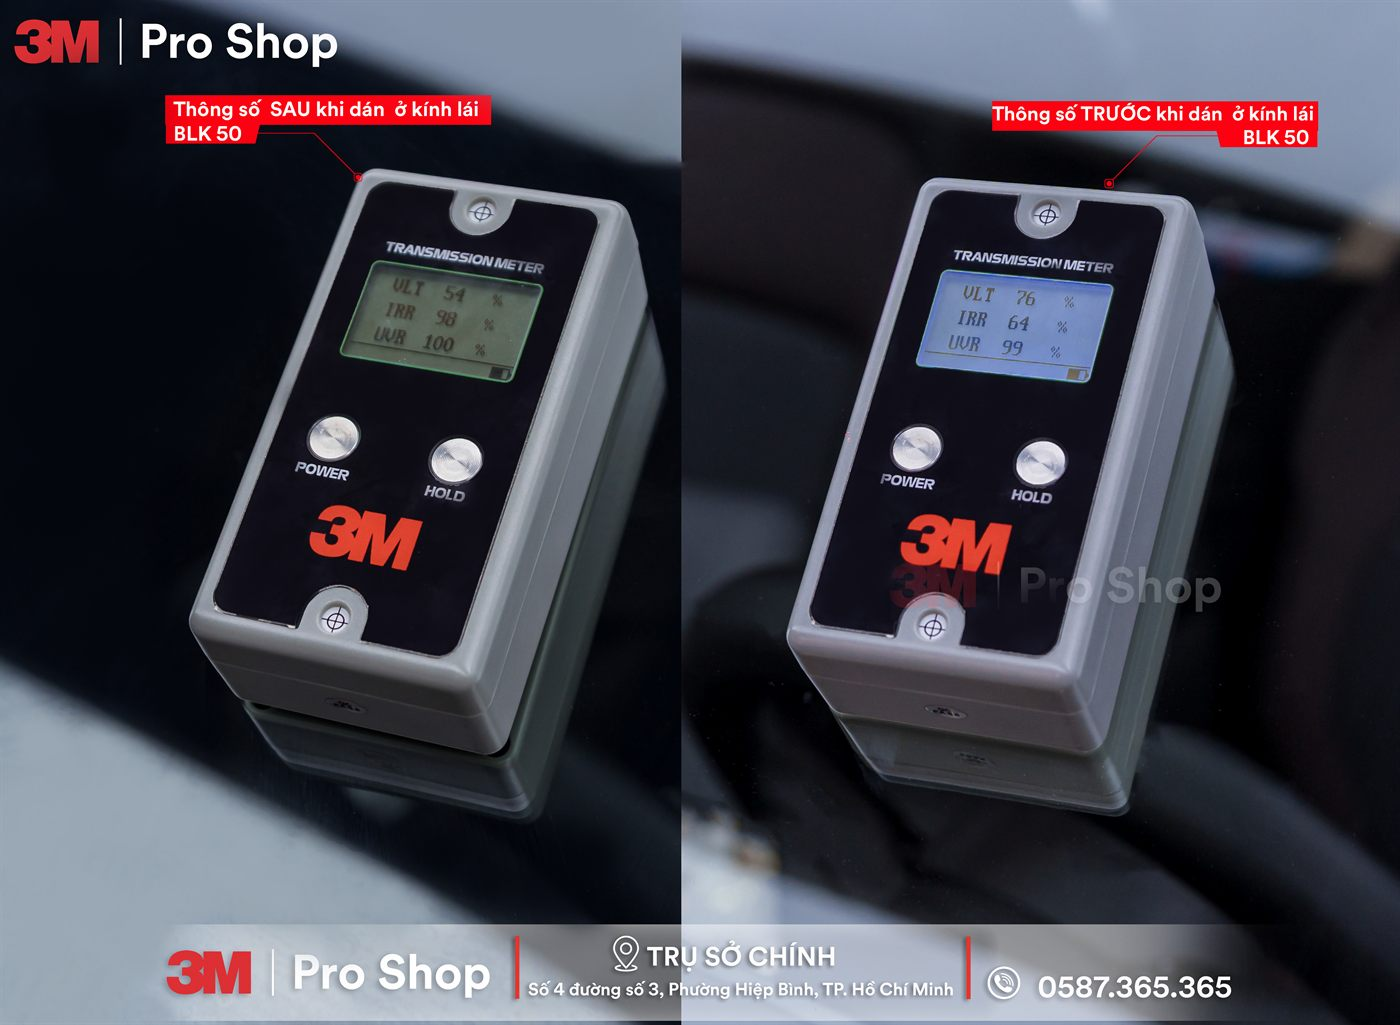
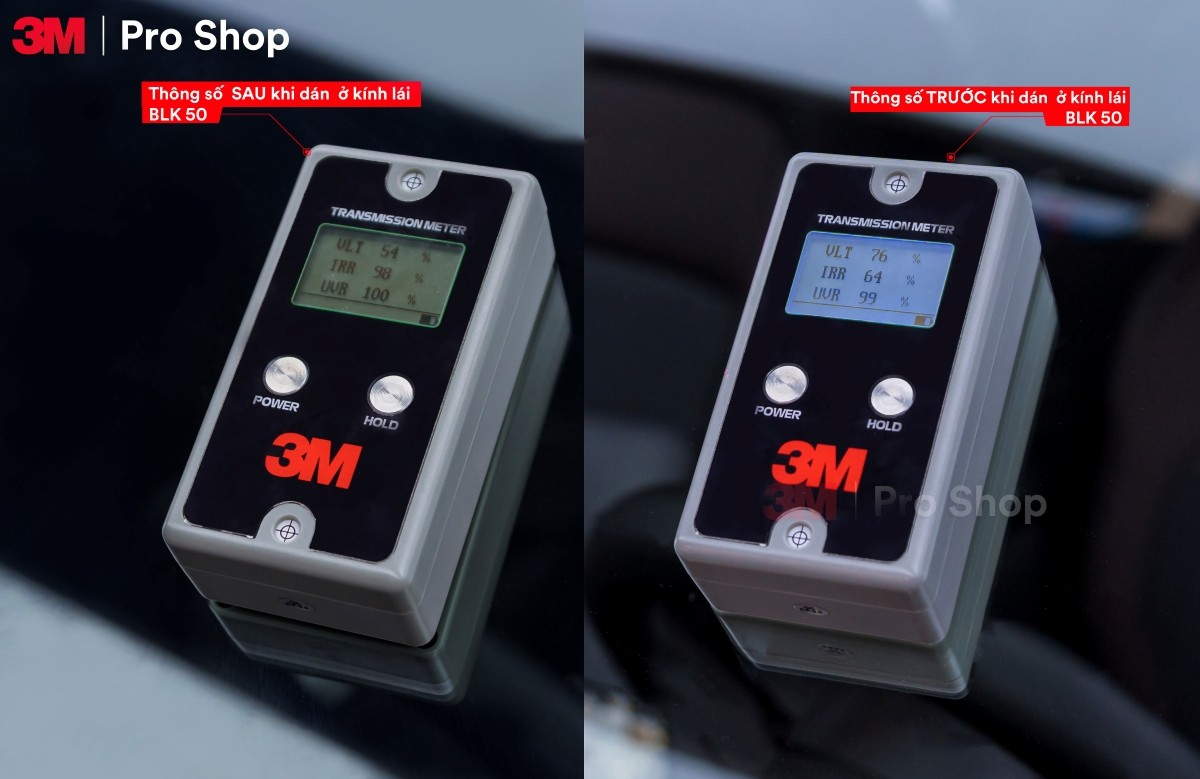
Thay ảnh đo thông số bằng bản đã cắt footer - đóng lỗi NAP 6.3 của audit v=2
Ảnh cũ in hotline 0587.365.365 (lệch với 0365 365 365 của trang) và ghép "3M Pro Shop" với
"TRỤ SỞ CHÍNH" thành một địa chỉ, trái Entity Lock vì đây là hai điểm riêng. Bản mới do chủ
dự án cấp đã cắt bỏ toàn bộ dải footer đó, chỉ còn phần đo trước/sau.

Cập nhật kèm: width/height 1400x1025 -> 1200x779 và aspect-ratio khung ảnh tương ứng để
object-fit:cover không cắt mất nhãn "TRƯỚC/SAU khi dán".

Ảnh chỉ ghi tắt "BLK 50" nên bổ sung mã đầy đủ "3M Crystalline CR BLK 50" vào chú thích
dưới ảnh (audit yêu cầu không viết tắt mã phim).

Verify trên trình duyệt: ảnh tải 1200x779, tỷ lệ khung 1.5405 khớp tỷ lệ ảnh 1.5404,
không bị cắt xén.

diff --git a/auto365/phim-cach-nhiet-3m/index.html b/auto365/phim-cach-nhiet-3m/index.html
@@ -208,7 +208,7 @@
     /* Verify callout — dưới process strip */
     .warranty-block{display:grid;gap:16px;padding:20px;border:1px solid var(--border);border-radius:16px;background:var(--chip-card)}
     @media(min-width:768px){.warranty-block{grid-template-columns:1fr 1.4fr;gap:24px;align-items:center}}
-    .warranty-img{border-radius:12px;overflow:hidden;aspect-ratio:1400/1025;background:#f5f5f5}
+    .warranty-img{border-radius:12px;overflow:hidden;aspect-ratio:1200/779;background:#f5f5f5}
     .warranty-img img{width:100%;height:100%;object-fit:cover;display:block}
     .warranty-cap{font-size:11px;color:var(--muted);line-height:1.5;margin:8px 0 0}
     .warranty-content h3{font-size:16px;font-weight:600;margin:0}
@@ -671,9 +671,9 @@ button,a,select,input{touch-action:manipulation}.mobile-cta a,.mobile-cta button
 <div class="warranty-block">
 <div class="warranty-img-wrap">
 <div class="warranty-img">
-<img alt="Đo kiểm bằng transmission meter 3M tại Auto365 — kính lái trước khi dán đo VLT 76%, IRR 64%, UVR 99%; sau khi dán phim 3M Crystalline CR BLK 50 đo VLT 54%, IRR 98%, UVR 100%" decoding="async" fetchpriority="low" height="1025" loading="lazy" src="hinh/do-thong-so-truoc-sau-cr-blk-50.jpg" width="1400"/>
+<img alt="Đo kiểm bằng transmission meter 3M tại Auto365 — kính lái trước khi dán đo VLT 76%, IRR 64%, UVR 99%; sau khi dán phim 3M Crystalline CR BLK 50 đo VLT 54%, IRR 98%, UVR 100%" decoding="async" fetchpriority="low" height="779" loading="lazy" src="hinh/do-thong-so-truoc-sau-cr-blk-50.jpg" width="1200"/>
 </div>
-<p class="warranty-cap">Số đo thực tế trên một xe cụ thể bằng transmission meter tại Auto365 — không thay thế thông số TDS của 3M. Kết quả thay đổi theo kính nguyên bản, vị trí kính, thiết bị đo và điều kiện nghiệm thu.</p>
+<p class="warranty-cap">Mã phim ghi tắt “BLK 50” trên ảnh là <strong>3M Crystalline CR BLK 50</strong>. Đây là số đo thực tế trên một xe cụ thể bằng transmission meter tại Auto365 — không thay thế thông số TDS của 3M. Kết quả thay đổi theo kính nguyên bản, vị trí kính, thiết bị đo và điều kiện nghiệm thu.</p>
 </div>
 <div class="warranty-content">
 <h3>Đảm bảo dán đúng phim 3M chính hãng</h3>
